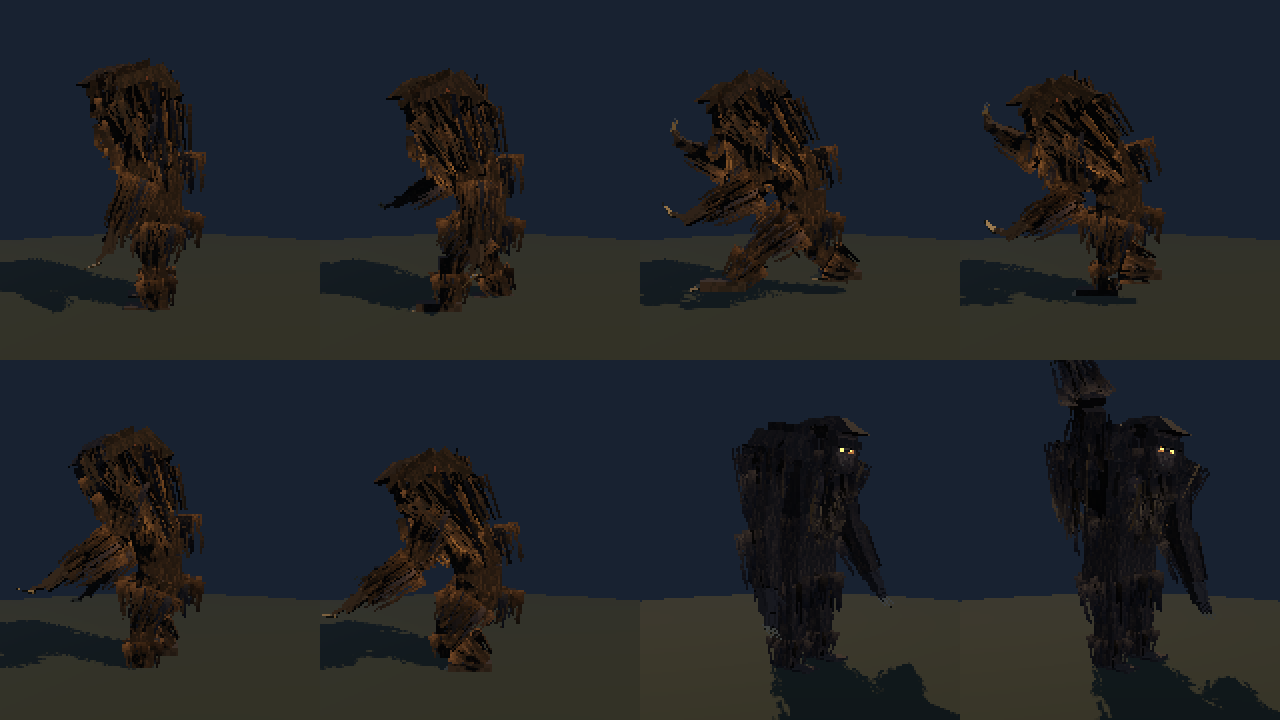
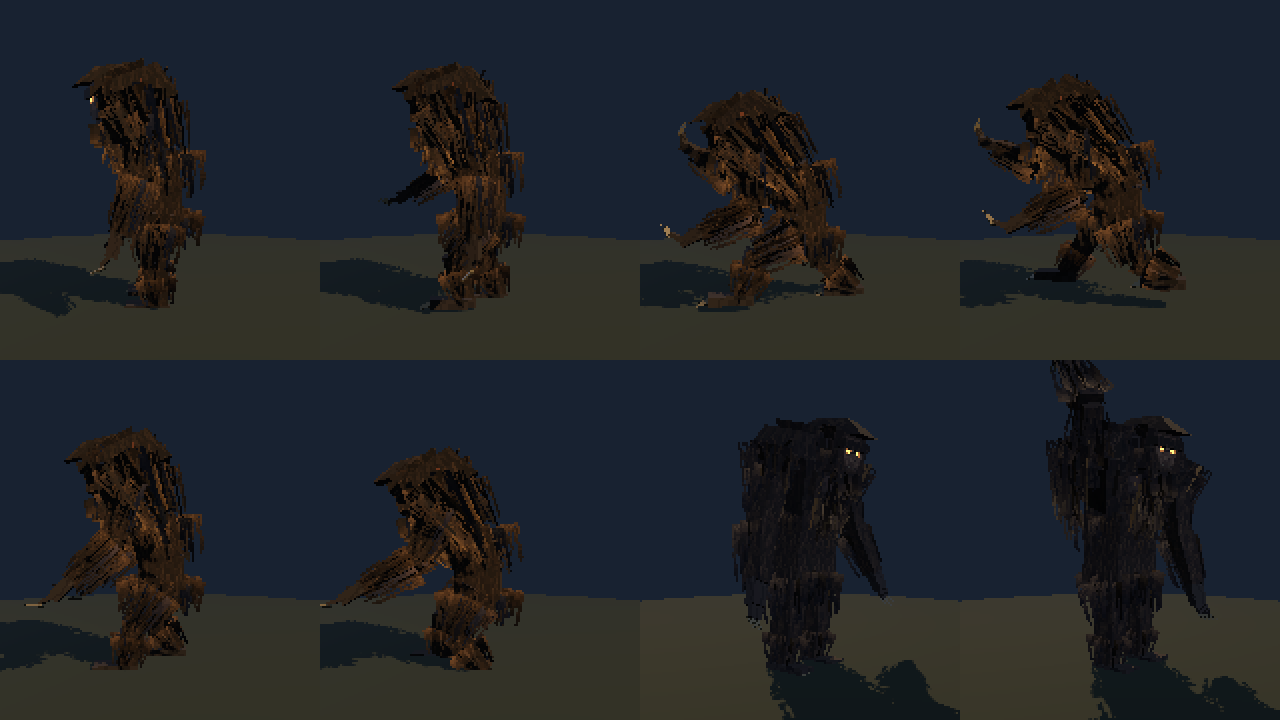
#43 follow-up: fluid, personality-driven Bigfoot animation (director review)
Smooth posing by default (POSE_FPS 0, stepped still optional); spring
follow-through on head and arms; idle fidgets (weight shift, shoulder roll,
listening head tilt, snort) locked to the idle loop. check-t43 now checks
fluid posing, follow-through and idle personality (18/18).

Claude-Session: https://claude.ai/code/session_014LNbETajN6bCcyZgRULETd

diff --git a/src/cryptids/bigfootAnim.js b/src/cryptids/bigfootAnim.js
@@ -17,12 +17,15 @@ import * as THREE from 'three';
 // the head counter-rotates to stay level (a predator's steady gaze).
 // Seamless loops: walk/run/flee/investigate/prowl depend only on the stride phase, idle only on
 // a clock that wraps every IDLE_PERIOD seconds (every idle frequency is a whole multiple of it).
-// Pixel-art posing: the limbs are posed at POSE_FPS (animating "on twos"), held in between, so
-// silhouettes snap between crisp key poses; travel across the ground stays smooth.
+// Fluid, personality-driven motion (director, #43 review): poses evaluate every frame by default
+// (POSE_FPS = 0). Secondary motion rides on top: the head and arms follow through on springs
+// (overlap on starts, stops and turns), and idle has fidgets (a weight shift, a shoulder roll, a
+// curious head tilt, a snort) timed to the idle loop. Stepped "on twos" posing is still available
+// (poseFps > 0) if the director wants it back on other creatures.
 // Rig-parameterized: rest heights and leg length are read from the bones, and stride from the
 // model's world scale, so proportion changes to the model (e.g. #56) keep feet planted.
 
-export const POSE_FPS = 12;
+export const POSE_FPS = 0;   // 0 = smooth (every frame); e.g. 12 for stepped pixel-art posing
 export const IDLE_PERIOD = 6;          // seconds; idle loops exactly over this
 
 /** Behaviour state -> base clip (locomotion clips resolve by speed; see clipFor). */
@@ -61,6 +64,19 @@ export function createBigfootAnimator(root, bones, { worldScale = 1, poseFps = P
   let pending = 0;                                          // dt accumulated since the last pose
   let clip = 'idle';
   let lastState = 'roam', lastSpeed = 0;
+  // Critically damped springs for follow-through (value, velocity per channel).
+  const springs = new Map();
+  const spring = (name, target, freq, dt) => {
+    let sp = springs.get(name);
+    if (!sp) { sp = { x: target, v: 0 }; springs.set(name, sp); }
+    if (dt <= 0) return sp.x;
+    // Exact critically damped step (stable for any dt).
+    const w = freq, e = Math.exp(-w * dt), d = sp.x - target;
+    const x = target + (d + (sp.v + w * d) * dt) * e;
+    sp.v = (sp.v - w * (sp.v + w * d) * dt) * e;
+    sp.x = x;
+    return x;
+  };
 
   const api = {
     STRIDE, rest, poseFps,
@@ -104,6 +120,14 @@ export function createBigfootAnimator(root, bones, { worldScale = 1, poseFps = P
     const breath = Math.sin(idleT * w1 * 2);                // 2 breaths per loop... slow and heavy
     const idleLook = Math.sin(idleT * w1) * 0.55 + Math.sin(idleT * w1 * 3) * 0.08;
     const idleSway = Math.sin(idleT * w1) * 0.03;
+    // Idle personality beats (all locked to the idle loop): shift weight onto one leg, roll the
+    // shoulders, tilt the head like he's listening, snort at the top of a breath.
+    const bump = (center, width) => { let d = Math.abs(((idleT / IDLE_PERIOD - center) % 1 + 1.5) % 1 - 0.5); return Math.pow(Math.max(0, Math.cos(Math.min(Math.PI / 2, d / width * Math.PI / 2))), 2); };
+    const still = 1 - mb;
+    const weightShift = Math.sin(idleT * w1) * 0.07 * still;
+    const shoulderRoll = bump(0.3, 0.12) * still;
+    const headTilt = bump(0.62, 0.14) * still;
+    const snort = bump(0.85, 0.04) * still;
 
     // Heavy foot plant: a sharp dip at each contact (sw = ±1 is a heel strike for one leg).
     const plant = Math.pow(Math.abs(sw), 12) * mb;
@@ -116,9 +140,10 @@ export function createBigfootAnimator(root, bones, { worldScale = 1, poseFps = P
       + L * Math.abs(cw) * mb * (0.05 + 0.08 * rb)
       - L * plant * (0.05 + 0.04 * rb)
       + (1 - mb) * breath * 0.01 * L;
-    bones.hips.rotation.set(0, sw * 0.12 * mb, cw * 0.05 * mb * (1 - rb) + (1 - mb) * idleSway);
+    bones.hips.rotation.set(0, sw * 0.12 * mb, cw * 0.05 * mb * (1 - rb) + (1 - mb) * idleSway + weightShift);
     bones.spine.rotation.set(-lean * 0.55 - plantJolt * 0.06, -swLag * 0.1 * mb, -Math.cos(phase - lag) * 0.04 * mb);
-    bones.chest.rotation.set(-(lean * 0.45 + (1 - mb) * breath * 0.035) - plantJolt * 0.05, -swLag * 0.13 * mb, -Math.cos(phase - lag * 1.5) * 0.05 * mb);
+    bones.chest.rotation.set(-(lean * 0.45 + (1 - mb) * breath * 0.035) - plantJolt * 0.05 - shoulderRoll * 0.08 + snort * 0.06,
+      -swLag * 0.13 * mb + shoulderRoll * 0.12, -Math.cos(phase - lag * 1.5) * 0.05 * mb - weightShift * 0.8);
 
     // ---- head: stabilised against the body sway, then the clip's own look ----
     const scan = Math.sin(clock * 1.15) * 0.8 + Math.sin(clock * 2.9) * 0.15;
@@ -126,7 +151,11 @@ export function createBigfootAnimator(root, bones, { worldScale = 1, poseFps = P
     const yaw = lerp(lerp(lerp(idleLook * (1 - mb), scan, invW), glance, fleeW), 0, Math.max(stareW, prowlW));
     const sniff = Math.sin(clock * 6.5) * 0.05 * invW;
     const counterYaw = (bones.hips.rotation.y + bones.spine.rotation.y + bones.chest.rotation.y) * 0.7;
-    bones.neck.rotation.set(lean * 0.95 - 0.12 + sniff - 0.1 * invW - 0.15 * prowlW + plantJolt * 0.04, yaw - counterYaw, -(bones.chest.rotation.z + bones.spine.rotation.z) * 0.8);
+    // The head follows its target on a spring: it overshoots a little and settles when he
+    // starts, stops or snaps his attention around (overlap / follow-through).
+    const neckX = spring('neckX', lean * 0.95 - 0.12 + sniff - 0.1 * invW - 0.15 * prowlW + plantJolt * 0.04 - snort * 0.12, 9, dt);
+    const neckY = spring('neckY', yaw - counterYaw, 7, dt);
+    bones.neck.rotation.set(neckX, neckY, -(bones.chest.rotation.z + bones.spine.rotation.z) * 0.8 + headTilt * 0.22);
     // Jaw: breathes on the idle clock when still, pants in time with the steps when moving (keeps gaits seamless).
     if (bones.jaw) bones.jaw.rotation.x = 0.12 + (1 - mb) * breath * 0.04 + mb * Math.abs(sw) * 0.03 + rb * 0.25 + 0.2 * stareW;
 
@@ -144,8 +173,10 @@ export function createBigfootAnimator(root, bones, { worldScale = 1, poseFps = P
     const armAmp = lerp(0.4, 0.9, rb) * mb * (1 + 0.25 * fleeW) * (1 - 0.5 * invW) * (1 - 0.6 * prowlW);
     for (const [side, s] of [['L', 1], ['R', -1]]) {
       const a = -swLag * s;
-      bones[`upperArm${side}`].rotation.set(a * armAmp + lean + 0.05 + 0.25 * rb + 0.15 * invW + 0.35 * prowlW, 0,
-        s * -0.16 - (1 - mb) * s * 0.04 * Math.sin(idleT * w1 * 2) - 0.15 * stareW * s);
+      // Heavy arms: the swing target is followed on a spring, so they drag and overshoot.
+      const armX = spring(`arm${side}`, a * armAmp + lean + 0.05 + 0.25 * rb + 0.15 * invW + 0.35 * prowlW + shoulderRoll * 0.1, 11, dt);
+      bones[`upperArm${side}`].rotation.set(armX, 0,
+        s * -0.16 - (1 - mb) * s * 0.04 * Math.sin(idleT * w1 * 2) - 0.15 * stareW * s - (side === 'L' ? 1 : -1) * weightShift * 0.5);
       bones[`forearm${side}`].rotation.set(0.25 + 0.9 * rb + Math.max(0, a) * 0.3 * mb + 0.25 * invW + 0.3 * prowlW + plantJolt * 0.12, 0, 0);
       const curl = lerp(0.35 + rb * 0.6 + (1 - mb) * Math.sin(idleT * w1 + s) * 0.08, 0.05, Math.max(stareW, prowlW * 0.6));   // claws splay when staring / stalking
       for (let f = 0; f < 4; f++) if (bones[`finger${side}${f}`]) bones[`finger${side}${f}`].rotation.x = curl;

diff --git a/.ballast/reports/t43.md b/.ballast/reports/t43.md
@@ -2,15 +2,8 @@ STATUS: DONE
 - Bigfoot's full animation set is finished and tied to everything he can do. Idle, walk, run, flee, investigate, a new crouched "prowl" for when he's following you, stare (for watching, warning and threatening you) and the wood knock. Every behaviour he has now plays a matching animation; before, following you had none of its own.
 - Weight: each footfall now lands hard, with the hips dropping and the chest catching the impact a beat later. His shoulders and arms swing a fraction of a step behind his hips, so the upper body drags with mass. His head stays level and steady while his body rolls, like a predator watching you.
 - Knock: he first sinks and draws the arm down and back (anticipation), rears it high overhead, and clubs the trunk. The blow overshoots past the hit, then settles back, his whole body twisting into it. Each knock sound still lands on a strike.
-- Pixel-art feel: the limbs snap between crisp key poses 12 times a second (animating "on twos"), while his movement across the ground stays smooth. Idle, walk and run loop perfectly.
-- See them: the GIFs for every animation and a contact sheet are in `.ballast/media/t43/`. There's a viewer at `/lookdev/bigfoot-anim.html` on the dev server: keys 1–8 pick an animation, A/D rotate, P toggles stepped vs smooth posing, Space knocks. In game, answer a knock (K), or spook and track him.
-- Checks (`npm run check:t43`, 15/15): every behaviour maps to an animation; real behaviour changes and a real wood knock play the right one; idle, walk and run loops match exactly; the knock anticipates, overshoots and finishes on its own; the rig adapts when the model's proportions change. The model, knock and behaviour checks still pass.
-- Subjective choices for the director's sign-off: posing at 12 fps; how deep the footfall dip is; the half-step torso lag; how far back the knock wind-up goes; the prowl crouch depth; the head scanning on its own rhythm during flee and investigate (it glances back and sniffs independently of his steps).
+- Fluid motion with personality (director's call): he now moves smoothly every frame instead of snapping between poses. His head and heavy arms swing on springs, so they drag, overshoot and settle when he starts, stops or snaps his attention around. Idle has personality beats that repeat with the loop: he shifts his weight onto one leg, rolls his shoulders, tilts his head like he's listening, and snorts. Idle, walk and run still loop perfectly.
+- See them: the GIFs for every animation and a contact sheet are in `.ballast/media/t43/`. There's a viewer at `/lookdev/bigfoot-anim.html` on the dev server: keys 1–8 pick an animation, A/D rotate, P toggles smooth vs stepped posing (smooth is the game default), Space knocks. In game, answer a knock (K), or spook and track him.
+- Checks (`npm run check:t43`, 18/18): every behaviour maps to an animation; real behaviour changes and a real wood knock play the right one; idle, walk and run loops match exactly; the knock anticipates, overshoots and finishes on its own; the rig adapts when the model's proportions change; posing is fluid; the head follows through when he stops; idle has a listening head tilt. The model, knock and behaviour checks still pass.
+- Subjective choices for the director's sign-off: how springy the head and arms are; how big the idle fidgets are; how deep the footfall dip is; the half-step torso lag; how far back the knock wind-up goes; the prowl crouch depth; the head scanning on its own rhythm during flee and investigate (it glances back and sniffs independently of his steps).
 - PR: https://github.com/nsmith-gd/cryptidhunter/pull/60
-
-## Questions
-### Should Bigfoot's limbs move in crisp stepped poses or smoothly?
-Context: His body now snaps between key poses 12 times a second, like hand-animated pixel art, while he glides smoothly across the ground. It reads chunky and stylised up close; at a distance you mostly notice it as a slightly jerky, heavy gait.
-Options: - Stepped at 12 poses a second (current: pixel-art feel, a little uncanny) - Smooth (natural, more like a regular 3D game) - Stepped slower, 8 a second (very stylised, more creepy and puppet-like)
-Going with: 12 a second, which matches the pixel style and gives his movement an unsettling, deliberate weight.
-Capture: walk.gif
